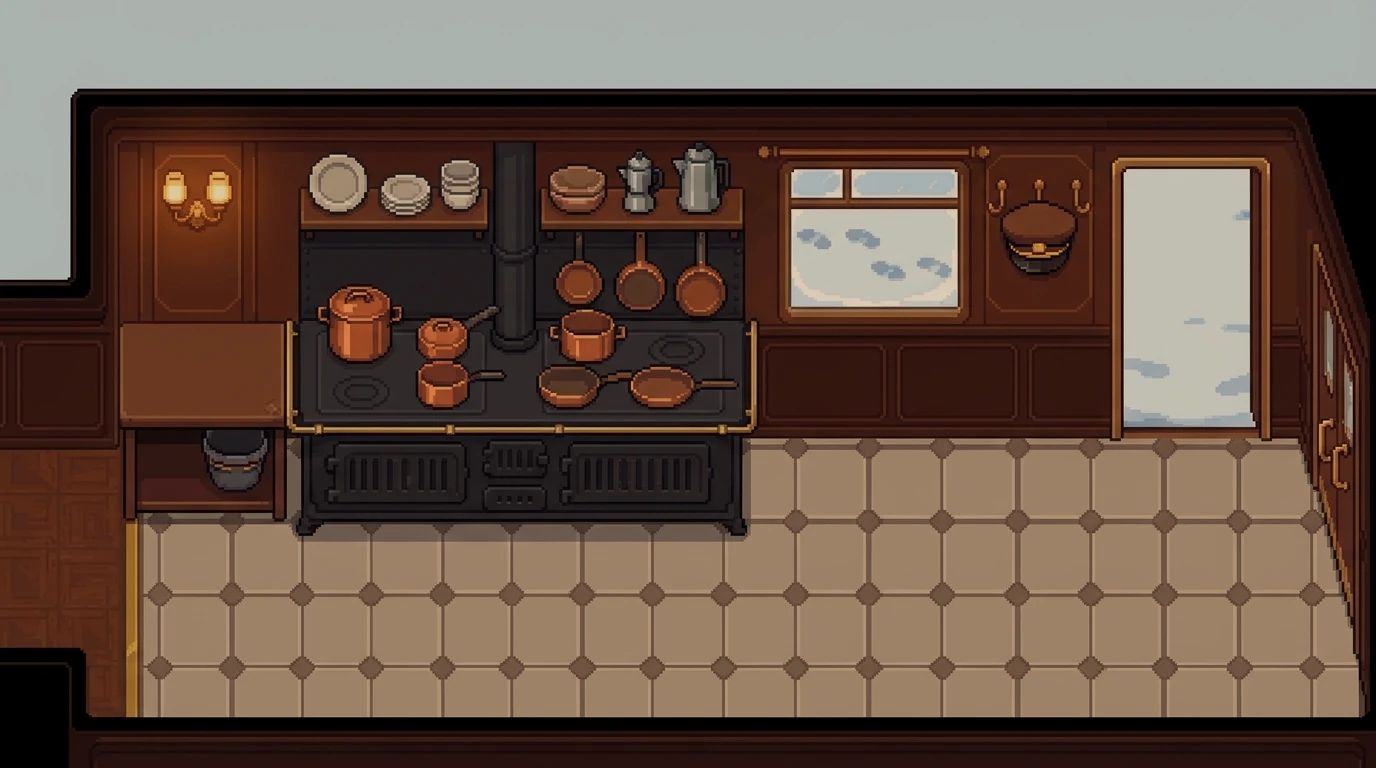
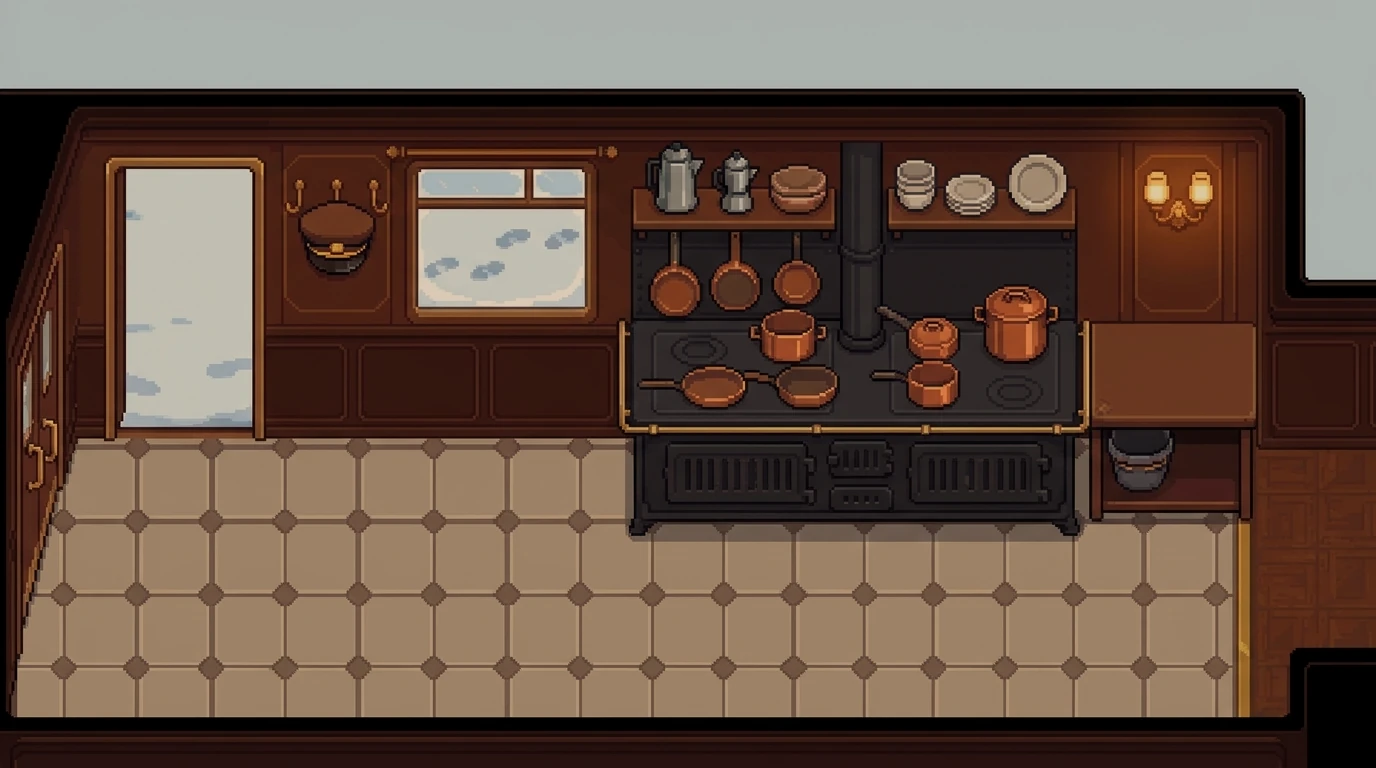
Organic exits, engraved door numbers, bottom mini-map, kitchen between dining car and lounge
- Exits: a pool of floor light with drifting chevrons; the name fades in only when near or hovered
- Corridor doors: numbers engraved on each door's brass plate instead of badges
- Mini-map: translucent at the bottom centre, hidden in conversations and panels, fades when walked under
- Train map: the you pin and portrait dots stay inside their room, wrapping when crowded
- Geography matches the map: sleeping car, dining car, kitchen (mirrored plate), lounge; the dining
  car's back door is now a linen cupboard
- Inventory button is a suitcase; docs updated

diff --git a/engine/engine.js b/engine/engine.js
@@ -282,6 +282,73 @@
     ctx.save(); ctx.globalCompositeOperation = 'soft-light'; ctx.fillStyle = L.wash; ctx.fillRect(0, 0, W, H); ctx.restore();
     ctx.drawImage(vignette, 0, 0);
   }
+  // Ways out are marked in the world, not with signs: a soft pool of light on the floor at every exit, with
+  // chevrons drifting the way you'd walk. Its name fades in only when you're close or pointing at it.
+  // Compartment doors in the corridor instead carry their number engraved on the door's own brass plate.
+  function exitSide(e) {
+    const [x, y, w, h] = e.rect;
+    return x < 60 ? 'left' : x + w > W - 60 ? 'right' : y + h > H - 70 ? 'down' : 'up';
+  }
+  function exitAnchor(e) {                                   // a point on the floor at the exit, and the way out
+    const [x, y, w, h] = e.rect, side = exitSide(e);
+    if (side === 'left') return [x + w + 20, y + h * 0.62, -1, 0];
+    if (side === 'right') return [x - 20, y + h * 0.62, 1, 0];
+    if (side === 'down') return [x + w / 2, y - 12, 0, 1];
+    return [x + w / 2, y + h + 8, 0, -1];
+  }
+  function drawExits() {
+    const cold = E.sceneId === 'outside', p = E.player, pulse = (Math.sin(E.t / 22) + 1) / 2, placed = [];
+    for (const e of E.scene.exits || []) {
+      if (!E.hooks.exitOpen(e)) continue;
+      const [x, y, w, h] = e.rect, hov = E.hover && E.hover.kind === 'exit' && E.hover.e === e;
+      const num = /^No\. (\d)$/.exec(e.label || '');
+      if (num && y < 300) {                                   // a compartment door: engrave the number on its plate
+        const cx = x + w / 2, cy = y + 57;
+        ctx.save(); ctx.textAlign = 'center'; ctx.textBaseline = 'middle'; ctx.font = `600 italic 17px Georgia, "Times New Roman", serif`;
+        ctx.fillStyle = 'rgba(255,236,190,.55)'; ctx.fillText(num[1], cx, cy + 1.5);        // highlight under the cut
+        ctx.fillStyle = hov ? '#2a1606' : '#4a2c12'; ctx.fillText(num[1], cx, cy);
+        if (hov) { ctx.globalAlpha = 0.35 + pulse * 0.25; ctx.strokeStyle = '#ffe3a0'; ctx.lineWidth = 2; roundRect(cx - 27, cy - 9, 54, 18, 3); ctx.stroke(); }
+        ctx.restore(); continue;
+      }
+      const [ax, ay, dx, dy] = exitAnchor(e), locked = !!e.locked;
+      // the pool of light
+      const rx = dy ? 62 : 46, ry = dy ? 18 : 30, g = ctx.createRadialGradient(ax, ay, 2, ax, ay, rx);
+      const col = locked ? '200,190,175' : cold ? '215,235,255' : '255,214,140', a0 = locked ? 0.12 : (hov ? 0.42 : 0.24) + pulse * 0.1;
+      g.addColorStop(0, `rgba(${col},${a0})`); g.addColorStop(1, `rgba(${col},0)`);
+      ctx.save(); ctx.globalCompositeOperation = 'lighter'; ctx.translate(ax, ay); ctx.scale(1, ry / rx); ctx.translate(-ax, -ay);
+      ctx.fillStyle = g; ctx.beginPath(); ctx.arc(ax, ay, rx, 0, 7); ctx.fill(); ctx.restore();
+      // chevrons drifting outwards (none on a locked way)
+      if (!locked) {
+        const ph = (E.t / 40) % 1, sq = dy ? 0.55 : 1;
+        ctx.save(); ctx.lineCap = 'round'; ctx.lineJoin = 'round'; ctx.lineWidth = 3; ctx.shadowColor = cold ? 'rgba(90,130,190,.6)' : 'rgba(120,70,10,.55)'; ctx.shadowBlur = 5;
+        for (let k = 0; k < 3; k++) {
+          const t = (k / 3 + ph) % 1, d = -14 + t * 34, fade = Math.sin(t * Math.PI);
+          const cx = ax + dx * d, cy = ay + dy * d * sq, s = 7;
+          ctx.globalAlpha = fade * (hov ? 0.95 : 0.7); ctx.strokeStyle = cold ? '#f4fbff' : '#fff1cf';
+          ctx.beginPath();
+          if (dx) { ctx.moveTo(cx - dx * s, cy - s); ctx.lineTo(cx, cy); ctx.lineTo(cx - dx * s, cy + s); }
+          else { ctx.moveTo(cx - s * 1.3, cy - dy * s * sq); ctx.lineTo(cx, cy); ctx.lineTo(cx + s * 1.3, cy - dy * s * sq); }
+          ctx.stroke();
+        }
+        ctx.restore();
+      }
+      // the name, only when it matters
+      const near = p ? Math.hypot(p.x - ax, p.y - ay) : 1e9, show = hov || near < 240 || E.t < (E.namesUntil || 0);
+      e.labelA = Math.max(0, Math.min(1, (e.labelA || 0) + (show ? 0.08 : -0.06)));
+      if (e.labelA > 0.02) {
+        const text = (locked ? '🔒 ' : '') + (num ? 'Compartment ' + num[1] : e.label);
+        ctx.save(); ctx.font = `800 16px ${FONT}`; ctx.textBaseline = 'middle'; ctx.textAlign = 'left';
+        const tw = ctx.measureText(text).width;
+        let tx = dx < 0 ? ax - 16 : dx > 0 ? ax + 16 - tw : ax - tw / 2, ty = dy ? ay - (dy < 0 ? 30 : 28) : ay - 34;
+        tx = Math.max(10, Math.min(W - tw - 10, tx));
+        for (let k = 0; k < 4; k++) { const hit = placed.find((r) => tx < r[0] + r[2] + 8 && tx + tw + 8 > r[0] && Math.abs(ty - r[1]) < 22); if (!hit) break; ty = hit[1] - 24; }
+        placed.push([tx, ty, tw]);
+        ctx.globalAlpha = e.labelA; ctx.shadowColor = 'rgba(16,8,2,.9)'; ctx.shadowBlur = 7; ctx.shadowOffsetY = 1;
+        ctx.fillStyle = locked ? '#d8ccb8' : cold ? '#ffffff' : '#fff3da'; ctx.fillText(text, tx, ty);
+        ctx.restore();
+      }
+    }
+  }
   function drawSpotMarkers() {
     for (const s of E.hooks.spots()) {
       if (s.prop) { const im = img('items/' + s.prop); if (ready(im)) { const w = s.w || 48, h = (im.naturalHeight * w) / im.naturalWidth; ctx.drawImage(im, s.at[0] - w / 2, s.at[1] - h / 2, w, h); } }
@@ -312,6 +379,7 @@
       const list = [...E.actors.values()].filter((a) => a.visible).sort((a, b) => a.y - b.y);
       for (const a of list) drawActor(a);
       drawLight(s);
+      drawExits();
       // Name labels only where they help: the person under the cursor, and the one E would talk to.
       // Speakers carry their name inside the bubble, so a crowded room stays readable.
       const near = nearestActor(), talking = new Set(E.bubbles.map((b) => b.who));
@@ -323,7 +391,8 @@
         if (name) label(name, a.x, a.box[1] - 26, hov || a === near ? { bg: '#fff3c4', edge: '#e0a72e', size: 15 } : { size: 15 });
       }
       if (E.hover && E.hover.kind === 'spot') label(E.hover.s.label, E.hover.s.at[0], E.hover.s.at[1] - E.hover.s.r - 34, { bg: '#fff3c4', edge: '#e0a72e' });
-      if (E.hover && E.hover.kind === 'exit') { const e = E.hover.e; label((e.locked ? '🔒 ' : '→ ') + e.label, e.rect[0] + e.rect[2] / 2, e.rect[1] - 30, { bg: '#fff3c4' }); }
+      // Signed exits highlight themselves on hover; compartment-door badges get a full name tag.
+      if (E.hover && E.hover.kind === 'exit' && /^No\. \d$/.test(E.hover.e.label) && E.hover.e.rect[1] < 300) { const e = E.hover.e; label('Compartment ' + e.label.slice(4), e.rect[0] + e.rect[2] / 2, e.rect[1] - 14, { bg: '#fff3c4', edge: '#e0a72e', size: 15 }); }
       checkExits();
     }
     E.bubbles = E.bubbles.filter((b) => { b.t++; if (--b.left <= 0) { const a = E.actors.get(b.who); if (a) a.talking = false; b.done && b.done(); return false; } return true; });

diff --git a/engine/scenes.js b/engine/scenes.js
@@ -19,12 +19,11 @@
       walk: [[[12, 458], [1292, 458], [1292, 602], [12, 602]]],
       exits: [
         { id: 'to-corridor', rect: [0, 455, 26, 150], to: 'corridor', spawn: [1262, 500, 'left'], label: 'Sleeping car' },
-        { id: 'to-lounge', rect: [1282, 455, 94, 150], locked: 'The lounge car is further on. Finish your breakfast first.', label: 'Lounge car', beats: BF },
-        { id: 'to-lounge', rect: [1282, 455, 94, 150], to: 'lounge', spawn: [60, 480, 'right'], label: 'Lounge car', beats: INV },
-        { id: 'to-kitchen', rect: [1185, 160, 105, 302], to: 'kitchen', spawn: [1250, 500, 'left'], label: 'Kitchen', beats: INV },
+        { id: 'to-kitchen', rect: [1282, 455, 94, 150], locked: 'The kitchen, and the lounge car beyond it. Finish your breakfast first.', label: 'Kitchen', beats: BF },
+        { id: 'to-kitchen', rect: [1282, 455, 94, 150], to: 'kitchen', spawn: [90, 600, 'right'], label: 'Kitchen · Lounge car', beats: INV },
       ],
       spots: [
-        { id: 'kitchen-door', at: [1235, 270], stand: [1235, 470], r: 70, label: 'Kitchen door', text: 'The kitchen. Luigi is banging pans; he waves you away. Later.', beats: BF },
+        { id: 'cupboard', at: [1235, 270], stand: [1235, 470], r: 70, label: 'A narrow door', text: 'The linen cupboard: starched napkins, spare tablecloths and a box of Wagons-Lits cutlery. Through the wall you can hear Luigi banging pans in the kitchen.' },
         { id: 'menu', at: [300, 360], stand: [300, 470], r: 40, label: 'Breakfast table', text: 'Café, croissants, oeufs à la coque. "With the compliments of the Compagnie, for the delay."', beats: BF },
         { id: 'trainlog', at: [300, 648], stand: [300, 596], r: 40, label: "Castelli's log book", clues: ['e_trainlog'], prop: 'e_trainlog', w: 52 },
       ],
@@ -66,7 +65,7 @@
     lounge: {
       name: 'Lounge car', bg: 'bg-lounge', base: 172, depth: [432, 522, 0.95, 1.02],
       walk: [[[12, 432], [1228, 432], [1228, 522], [12, 522]]],
-      exits: [{ id: 'to-dining', rect: [0, 430, 22, 95], to: 'dining', spawn: [1262, 530, 'left'], label: 'Dining car' }],
+      exits: [{ id: 'to-kitchen', rect: [0, 430, 22, 95], to: 'kitchen', spawn: [1150, 620, 'left'], label: 'Kitchen · Dining car' }],
       spots: [
         { id: 'scorecard', at: [748, 345], stand: [748, 445], r: 42, label: 'The card table', clues: ['e_scorecard'], prop: 'e_scorecard', w: 40 },
         { id: 'piano', at: [540, 280], stand: [540, 445], r: 55, label: 'The piano', text: 'An upright piano, lid open on a page of Satie. Someone has left a cigarette burn on middle C.' },
@@ -77,15 +76,16 @@
 
     kitchen: {
       name: 'Kitchen', bg: 'bg-kitchen', base: 185, depth: [452, 705, 1.0, 1.08],
-      walk: [[[145, 540], [760, 540], [760, 455], [1298, 455], [1298, 705], [145, 705]]],
+      walk: [[[1231, 540], [616, 540], [616, 455], [78, 455], [78, 705], [1231, 705]]],
       exits: [
-        { id: 'to-dining', rect: [1292, 440, 84, 140], to: 'dining', spawn: [1237, 500, 'front'], label: 'Dining car' },
-        { id: 'to-outside', rect: [1120, 160, 140, 302], to: 'outside', spawn: [1250, 600, 'front'], label: 'Outside (kitchen door)' },
+        { id: 'to-dining', rect: [0, 455, 84, 250], to: 'dining', spawn: [1240, 540, 'left'], label: 'Dining car' },
+        { id: 'to-lounge', rect: [1200, 540, 176, 170], to: 'lounge', spawn: [60, 480, 'right'], label: 'Lounge car' },
+        { id: 'to-outside', rect: [116, 160, 140, 302], to: 'outside', spawn: [1250, 600, 'front'], label: 'Outside (kitchen door)' },
       ],
       spots: [
-        { id: 'grappa', at: [205, 330], stand: [230, 560], r: 42, label: 'Behind the stove', clues: ['e_grappa'], prop: 'e_grappa', w: 58 },
-        { id: 'cap', at: [1035, 232], stand: [1035, 480], r: 45, label: 'A cap on the hook', text: "A Wagons-Lits conductor's cap on the hook by the north window. Not Luigi's size." },
-        { id: 'window', at: [870, 240], stand: [870, 475], r: 70, label: 'The north window', text: 'Through the glass: a line of footprints in the snow, running along the train towards the lounge end.' },
+        { id: 'grappa', at: [1171, 330], stand: [1146, 560], r: 42, label: 'Behind the stove', clues: ['e_grappa'], prop: 'e_grappa', w: 58 },
+        { id: 'cap', at: [341, 232], stand: [341, 480], r: 45, label: 'A cap on the hook', text: "A Wagons-Lits conductor's cap on the hook by the north window. Not Luigi's size." },
+        { id: 'window', at: [506, 240], stand: [506, 475], r: 70, label: 'The north window', text: 'Through the glass: a line of footprints in the snow, running along the train towards the lounge end.' },
       ],
     },
 
@@ -94,7 +94,7 @@
       walk: [[[380, 545], [1376, 545], [1376, 745], [250, 745], [250, 640], [380, 565]]],
       exits: [
         { id: 'to-corridor', rect: [1100, 380, 80, 172], to: 'corridor', spawn: [80, 565, 'right'], label: 'Sleeping car door' },
-        { id: 'to-kitchen', rect: [1210, 380, 80, 172], to: 'kitchen', spawn: [1190, 480, 'front'], label: 'Dining car (kitchen door)' },
+        { id: 'to-kitchen', rect: [1210, 380, 80, 172], to: 'kitchen', spawn: [186, 480, 'front'], label: 'Kitchen door' },
       ],
       spots: [
         { id: 'prints', at: [800, 600], stand: [800, 665], r: 90, label: 'Footprints', clues: ['e_footprints'] },
@@ -160,7 +160,7 @@
       corridor: { castelli: [1280, 500, 'left'], theo: [930, 470, 'right'], ferrand: [1085, 440, 'right'] },
       dining: { irina: [592, 440, 'right', 'sit'] },
       lounge: { hale: [838, 408, 'left', 'sit'], mila: [1190, 500, 'right'], brandt: [1052, 585, 'left', 'sit'] },
-      kitchen: { cook: [620, 575, 'left'] },
+      kitchen: { cook: [756, 575, 'right'] },
       c7: {},
     },
   };

diff --git a/engine/minimap.js b/engine/minimap.js
@@ -1,4 +1,4 @@
-// Always-on mini-map (top right, under the clock): a strip of the illustrated train (the same art as the
+// Always-on mini-map (bottom centre, see-through): a strip of the illustrated train (the same art as the
 // full map, game-assets/ui/train-map.webp) with the current room outlined and a pulsing pin on you.
 // Click it (or press M) for the full map. Reads the room geometry from MAP.ROOMS (engine/map.js) and
 // follows ENGINE.sceneId on its own, so the story code doesn't have to call it.
@@ -8,26 +8,29 @@
   const CROP = [150, 118, 1400, 392];                 // x, y, w, h of the train strip inside the map art
   const pct = (v, of) => (v / of * 100).toFixed(3) + '%';
   const css = `
-#minimap { position: absolute; top: 4.1em; right: .9em; width: 15.5em; padding: .3em .3em .25em; cursor: pointer; }
+#minimap { position: absolute; left: 50%; bottom: .7em; transform: translateX(-50%); width: 24em; padding: .25em .3em .2em; cursor: pointer;
+  background: rgba(245,234,208,.28); border: .1em solid rgba(180,137,61,.55); border-radius: .5em; box-shadow: 0 .3em .9em rgba(0,0,0,.28);
+  backdrop-filter: blur(2px); -webkit-backdrop-filter: blur(2px); opacity: .72; transition: opacity .25s; }
+#minimap:hover { opacity: 1; }
+#minimap.under { opacity: .16; pointer-events: none; }
 #minimap .mm { position: relative; width: 100%; aspect-ratio: ${CROP[2]} / ${CROP[3]}; border-radius: .3em; overflow: hidden; border: .12em solid var(--edge);
   background: #e8eef4 url(${SRC}) no-repeat; background-size: ${pct(IMG_W, CROP[2])} auto;
   background-position: ${pct(CROP[0], IMG_W - CROP[2])} ${pct(CROP[1], IMG_H - CROP[3])}; filter: saturate(.85); }
 #minimap .mm::after { content: ""; position: absolute; inset: 0; background: rgba(245,234,208,.12); pointer-events: none; }
 #minimap .rm { position: absolute; border-radius: .2em; box-shadow: 0 0 0 .12em #f0c46a, 0 0 .6em .1em rgba(240,196,106,.75); background: rgba(255,236,170,.18); }
-#minimap .pin { position: absolute; width: .8em; height: .8em; transform: translate(-50%, -50%); border-radius: 50%; background: #35557a; border: .13em solid #f0c46a; z-index: 2; }
+#minimap .pin { position: absolute; width: .95em; height: .95em; transform: translate(-50%, -50%); border-radius: 50%; background: #35557a; border: .13em solid #f0c46a; z-index: 2; }
 #minimap .pin::after { content: ""; position: absolute; inset: -.15em; border-radius: 50%; border: .15em solid #f0c46a; animation: mmpulse 1.6s ease-out infinite; }
 @keyframes mmpulse { from { transform: scale(1); opacity: .9; } to { transform: scale(2.6); opacity: 0; } }
-#minimap .cap { display: flex; justify-content: space-between; align-items: baseline; gap: .5em; margin-top: .2em; font: 800 .62em var(--ui); color: var(--ink); padding: 0 .2em; }
-#minimap .cap span { color: var(--muted); font-weight: 700; }
-#minimap:hover { box-shadow: 0 0 0 .12em #f0c46a, 0 .3em .8em rgba(0,0,0,.35); }
+#minimap .cap { display: flex; justify-content: space-between; align-items: baseline; gap: .5em; margin-top: .25em; font: 800 .74em var(--ui); color: #fff3da; text-shadow: 0 1px 3px rgba(16,8,2,.9); padding: 0 .2em; }
+#minimap .cap span { color: #f0dcb4; font-weight: 700; }
 `;
   let el = null, last = null;
-  const CAR = { night: 'Engine', corridor: 'Sleeping car', dining: 'Dining car', kitchen: 'Dining car', lounge: 'Lounge car', outside: 'Outside' };
+  const CAR = { night: 'Engine', corridor: 'Sleeping car', dining: 'Dining car', kitchen: 'Dining car', lounge: 'Lounge car' };
 
   function mount() {
     const hud = document.getElementById('hud'); if (!hud || !window.MAP || !MAP.ROOMS) return false;
     const s = document.createElement('style'); s.textContent = css; document.head.appendChild(s);
-    el = document.createElement('div'); el.id = 'minimap'; el.className = 'parch'; el.title = 'The train (M)';
+    el = document.createElement('div'); el.id = 'minimap'; el.title = 'The train (M)';
     el.innerHTML = '<div class="mm"><div class="rm" hidden></div><div class="pin" hidden></div></div><div class="cap"><b></b><span>M: map</span></div>';
     el.addEventListener('click', () => {
       const E = window.ENGINE, G = window.GAME && GAME.G; if (!E || !G || !window.UI) return;
@@ -38,8 +41,13 @@
   }
   function update() {
     const E = window.ENGINE; if (!el && !mount()) return;
-    const id = E && E.sceneId, show = !!(E && E.scene && !E.scene.cinematic && MAP.ROOMS[id]);
-    el.hidden = !show; if (!show || id === last) return;
+    const dlg = document.getElementById('dialog'), busy = (dlg && !dlg.hidden) || (window.UI && UI.panelOpen && UI.panelOpen());
+    const id = E && E.sceneId, show = !!(E && E.scene && !E.scene.cinematic && MAP.ROOMS[id]) && !busy;
+    el.hidden = !show;
+    // fade right out when Sorel walks underneath it (the compartments' way out is at the bottom centre)
+    const p = E && E.player, under = !!(p && p.y > E.H - 230 && Math.abs(p.x - E.W / 2) < 330);
+    el.classList.toggle('under', under);
+    if (!show || id === last) return;
     last = id;
     const r = MAP.ROOMS[id], [x, y, w, h] = r.box, rm = el.querySelector('.rm'), pin = el.querySelector('.pin');
     const X = (v) => pct(v - CROP[0], CROP[2]), Y = (v) => pct(v - CROP[1], CROP[3]);

diff --git a/engine/map.js b/engine/map.js
@@ -103,19 +103,25 @@
       if (r.tag) html += `<div class="lbl tag${u}" style="${pos(id === 'corridor' ? 742 : r.at[0], id === 'corridor' ? 404 : id === 'kitchen' ? 298 : r.at[1] - 36)}">${esc(r.tag)}</div>`;
       if (r.num) html += `<div class="lbl num${u}${r.num === 7 ? ' seven' : ''}" style="${pos(r.at[0], 298)}">${r.num}</div>`;
     }
-    // people (portrait dots), spread in a row around the room's anchor; shifted right of the "you" pin
+    // Who is where: the "you" pin and the portrait dots are laid out INSIDE each room's box. The pin takes the
+    // left of the room you're in, the dots fill the rest in rows, so nothing spills over into the next car.
+    const DOT = 47;                                            // dot pitch, in map pixels (the dot itself is 1.7em)
     for (const id of Object.keys(ROOMS)) {
-      const list = people(id); if (!list.length || (id === here && ROOMS[id].num)) continue; // a compartment is too small for the pin and dots together
-      const r = ROOMS[id], step = r.num ? 34 : 44;
-      const x0 = r.at[0] - (list.length - 1) * step / 2 + (id === here ? 20 : 0);
-      const y = r.num ? 338 : r.at[1];
+      const r = ROOMS[id], mine = id === here && !r.num;
+      const list = people(id); if (!list.length || (id === here && r.num)) continue; // a compartment is too small for the pin and dots together
+      const [bx, by, bw, bh] = r.box;
+      if (r.num) { list.slice(0, 1).forEach((p) => { html += `<div class="dot${p === 'lazar' ? ' dead' : ''}" data-who="${p}" style="${pos(r.at[0], 338)};background-image:url(game-assets/portraits/${p}-0.webp)" data-room="${id}"></div>`; }); continue; }
+      const x0 = bx + (mine ? 62 : 14), x1 = bx + bw - 14, perRow = Math.max(1, Math.floor((x1 - x0) / DOT) + 1);
+      const rows = Math.ceil(list.length / perRow), yc = by + bh / 2 + (id === 'corridor' ? 8 : 12);
       list.forEach((p, i) => {
-        html += `<div class="dot${p === 'lazar' ? ' dead' : ''}" data-who="${p}" style="${pos(x0 + i * step, y)};background-image:url(game-assets/portraits/${p}-0.webp)" data-room="${id}"></div>`;
+        const row = Math.floor(i / perRow), n = Math.min(perRow, list.length - row * perRow), col = i % perRow;
+        const span = (n - 1) * DOT, cx = x0 + (x1 - x0) / 2 - span / 2 + col * DOT, cy = yc + (row - (rows - 1) / 2) * DOT;
+        html += `<div class="dot${p === 'lazar' ? ' dead' : ''}" data-who="${p}" style="${pos(cx, cy)};background-image:url(game-assets/portraits/${p}-0.webp)" data-room="${id}"></div>`;
       });
     }
     if (ROOMS[here]) {
       const r = ROOMS[here], crowd = people(here).length && !r.num;
-      const x = r.at[0] - (crowd ? (people(here).length * 44) / 2 + 40 : 0), y = r.num ? r.at[1] - 8 : r.at[1];
+      const x = crowd ? r.box[0] + 36 : r.at[0], y = r.num ? r.at[1] - 8 : crowd ? r.box[1] + r.box[3] / 2 + 4 : r.at[1];
       html += `<div class="you" style="${pos(x, y)}"><i></i><b>You</b></div>`;
     }
     html += '<div class="tip" hidden></div></div>';

diff --git a/index.html b/index.html
@@ -166,7 +166,7 @@ button { font-family: var(--ui); }
       <button class="sq parch" id="btn-map" title="The train (M)" aria-label="Map"><svg viewBox="0 0 24 24" fill="none" stroke="currentColor" stroke-width="2"><path d="M3 6l6-2 6 2 6-2v14l-6 2-6-2-6 2z"/><path d="M9 4v14M15 6v14"/></svg></button>
       <button class="sq parch" id="btn-people" title="Notebook (J)" aria-label="Notebook"><svg viewBox="0 0 24 24" fill="none" stroke="currentColor" stroke-width="2"><circle cx="9" cy="8" r="3"/><circle cx="17" cy="9" r="2.4"/><path d="M3 19c0-3.3 2.7-5 6-5s6 1.7 6 5M14.5 14.2c3.5-.5 6.5 1 6.5 4.8"/></svg></button>
       <button class="sq parch" id="btn-note" title="Quick note (N)" aria-label="Quick note"><svg viewBox="0 0 24 24" fill="none" stroke="currentColor" stroke-width="2"><path d="M4 20l1-4L16 5l3 3L8 19z"/><path d="M14 7l3 3M4 20h6"/></svg></button>
-      <button class="sq parch" id="btn-bag" title="Inventory (I)" aria-label="Inventory"><svg viewBox="0 0 24 24" fill="none" stroke="currentColor" stroke-width="2"><path d="M5 8h14l-1 12H6z"/><path d="M9 8V6a3 3 0 016 0v2"/></svg></button>
+      <button class="sq parch" id="btn-bag" title="Inventory (I)" aria-label="Inventory"><svg viewBox="0 0 24 24" fill="none" stroke="currentColor" stroke-width="2" stroke-linejoin="round"><rect x="3" y="7.5" width="18" height="12.5" rx="2"/><path d="M9 7.5V5.5a1.5 1.5 0 011.5-1.5h3A1.5 1.5 0 0115 5.5v2"/><path d="M3 12.5h18"/><path d="M7.5 7.5v12.5M16.5 7.5v12.5"/></svg></button>
       <button class="sq parch" id="btn-settings" title="Settings (Esc)" aria-label="Settings"><svg viewBox="0 0 24 24" fill="none" stroke="currentColor" stroke-width="2"><circle cx="12" cy="12" r="3"/><path d="M12 2v3M12 19v3M4.2 4.2l2.1 2.1M17.7 17.7l2.1 2.1M2 12h3M19 12h3M4.2 19.8l2.1-2.1M17.7 6.3l2.1-2.1"/></svg></button>
     </div>
     <div id="place" class="parch">Dining car</div>

diff --git a/tools/build-game-assets.py b/tools/build-game-assets.py
@@ -16,6 +16,7 @@ manifest = {'bg': [], 'sprites': {}, 'portraits': {}, 'items': []}
 # grey-cream tiles and compartment 6 are brighter and colder than the other interiors). warm = how far
 # to multiply towards lamp light, bright / sat = ImageEnhance factors.
 from PIL import ImageEnhance, ImageChops
+FLIP = {'bg-kitchen'}
 GRADE = {'bg-kitchen': dict(warm=0.30, bright=0.86, sat=1.12), 'bg-c6': dict(warm=0.18, bright=0.9, sat=1.08)}
 LAMP = (255, 196, 128)
 def grade(im, warm=0.0, bright=1.0, sat=1.0):
@@ -26,7 +27,11 @@ def grade(im, warm=0.0, bright=1.0, sat=1.0):
 
 # backgrounds: full size (1376x768), webp
 for f in sorted((SRC / 'backgrounds').glob('*.jpg')):
-    grade(Image.open(f).convert('RGB'), **GRADE.get(f.stem, {})).save(OUT / 'bg' / f'{f.stem}.webp', 'WEBP', quality=90, method=6)
+    im = Image.open(f).convert('RGB')
+    # The kitchen sits between the dining car and the lounge (as on the map), so its plate is mirrored:
+    # the dining car must be on its left. engine/scenes.js uses the mirrored coordinates.
+    if f.stem in FLIP: im = im.transpose(Image.FLIP_LEFT_RIGHT)
+    grade(im, **GRADE.get(f.stem, {})).save(OUT / 'bg' / f'{f.stem}.webp', 'WEBP', quality=90, method=6)
     manifest['bg'].append(f.stem)
 
 # sprites: poses from the slices, normalised to 300 px tall, feet at the bottom edge

diff --git a/docs/architecture.md b/docs/architecture.md
@@ -30,6 +30,9 @@ The two front ends share the same brains, the voice module and the bundle. `engi
 | `dialogue.js` | The conversation box. It uses the same brains as the prototype: scripted, or live through `/api/talk` with Gradium voice |
 | `ui.js` | The parchment DOM UI: top bar, hints, examine box, inventory, notebook, map, settings, accusation and the newspaper ending |
 | `audio.js` | `AUDIO`: the Lyria soundtrack (`game-assets/audio/`, crossfaded per beat, looped seamlessly, ducked while a voice speaks) and procedural WebAudio effects (footsteps per surface, doors, clue chime, page turn, UI clicks, toasts, train creaks and wind, the avalanche, stings). Starts on the first click or key. Settings: `music`, `musicVol`, `sound`, `sfxVol` |
+| `map.js` | The train map panel (M): an illustrated cut-away of the train (`game-assets/ui/train-map.webp`) with room tags, a "you are here" pin, visited rooms, who is where, and tooltips. `MAP.ROOMS` holds the room geometry |
+| `minimap.js` | The always-on mini-map, translucent at the bottom centre: a strip of the same art with the current room outlined and a pin. It hides during conversations and panels, and fades right out when Sorel walks under it. It follows `ENGINE.sceneId` by itself; a click opens the full map |
+| `notes.js` | Quick notes (N, or Alt+N in a conversation) and the notebook's *My notes* tab, organised by Gemini through `POST /api/notes/organize` |
 
 **Stages built so far:** the dining car, the corridor and compartment 7, plus the night opening.
 
@@ -89,13 +92,26 @@ The client stores `history` for each character and chapter and sends it back wit
 
 ## Voice pipeline (Gradium)
 
-- **Speaking (text-to-speech):** `new VOICE.Speech(voiceId)` opens `wss://api.gradium.ai/api/speech/tts?token=…`.
-  - Text deltas from the brain are cut at phrase boundaries (`. ? ! ,` or 90 chars) and sent as they arrive. `end()` sends `<flush>` and `end_of_stream`.
-  - Audio comes back as 24 kHz PCM16 and plays gaplessly through one `AudioContext`. An analyser drives the lip-flap.
+- **Speaking (text-to-speech):** `new VOICE.Speech(voiceId)` opens `wss://api.gradium.ai/api/speech/tts?token=…` and sends `setup` straight away.
+  - **Settings.** `VOICE.settingsFor(voiceId)` merges `CASE.voice` (`ttsModel`, `gradiumSpeed`, `gradiumTemp`) with the character's `voice.gradiumSpeed` / `voice.gradiumTemp`. Setup is `{ model_name, voice_id, output_format: "pcm_24000", json_config: { padding_bonus, temp } }`. Shipped defaults: `gradium-tts-beta`, speed `-1.0`, temp `0.8`. Per character, speed runs from `-0.5` (Lazăr, unhurried) to `-1.2` (Hale, Mila, Théo). Stay at or above `-1.2`: at `-1.5`, words start to slur.
+  - **Opened early.** The dialogue creates the Speech when the player asks, before Gemini answers. The token, socket and `ready` (about 150–500 ms) finish while Gemini thinks. A reply with no words is closed quietly by `end()`.
+  - **Chunking** (`VOICE.nextChunk`) sends whole sentences. A sentence shorter than 24 chars waits for the next one, and "Dr." or "Mr." does not end a sentence. A sentence longer than 120 chars is cut at a clause (`, ; : —`) at least 40 chars in, and at 220 chars at a space. `<flush>` is sent only at the end of the reply, or after 800 ms with no new text (for example during a tool call).
+  - **Playback** starts on the first audio chunk (30 ms of headroom), then plays gaplessly through one `AudioContext`. An analyser drives the lip-flap. Gradium adds about 2 s of silence at the end of a reply. Silent chunks are held back and dropped at `end_of_stream`, so `VOICE.player.speaking` (music ducking, lip-flap) stops when the voice does.
+  - **Captions follow the voice.** Gradium sends word timestamps (`text` messages with `start_s`). `speech.caption(text)` returns the words spoken so far. `engine/dialogue.js` and the prototype's `assets/talk.js` type the reply at that pace. The whole text shows if the voice fails, or if no audio arrives within 2.5 s.
+  - **Retry.** If the socket fails before any audio (for example "Concurrency limit exceeded"), it retries once after 350 ms and resends the text.
 - **Listening (speech-to-text):** push-to-talk.
-  - `VOICE.Listener.start()` opens `…/asr`, starts the microphone and streams about 85 ms chunks.
-  - `stop()` sends `flush` and waits up to 1.5 s for `flushed`, then resolves with the text.
-- **Tokens:** every socket gets a fresh single-use token from `GET /api/gradium-token`. The API key stays on the server.
+  - `VOICE.Listener.start()` asks for the microphone and the token at the same time. It then opens `…/asr` and streams about 85 ms chunks.
+  - The setup boosts the cast's names (`keywords`, boost 3). Without it, "Countess Irina Voss" came back as "contest Irena Voss" and "Stefan Brandt" as "Stefon Brant".
+  - `stop()` sends `flush` and waits up to 1.5 s for `flushed` (in tests it arrives in about 350–420 ms), then resolves with the text.
+- **Tokens:** every socket gets a fresh single-use token from `GET /api/gradium-token`. The API key stays on the server. A token lives only about 4 s, so none are cached ahead of time.
+- **Account limit:** the Gradium key allows **2 concurrent sessions**. One reply socket plus the mic is the most the game opens at once. Another tab or test script using the same key can cause `Concurrency limit exceeded`.
+- **Logs** (scope `voice`): `tts setup` (who, model, speed, temp, openMs), `tts first audio` (`ttfaMs` is measured from the first text sent; `sinceOpenMs` from when the Speech was created, so it includes Gemini's time), `tts done` (audioSec, chars, charsPerSec, trimmedSec) and `heard` (flushMs).
+- **Benchmark:** `~/Documents/projects/artifacts/voice-tests/bench.mjs` measures audio length, time to first audio and a speech-to-text round trip for each setting. The WAV samples are saved next to it. Measured on 2026-09-26, three test replies:
+
+  | Setting | Audio length | Speech only | Time to first audio after the first text |
+  |---|---|---|---|
+  | Before: `default` model, phrase chunks, speed 0 | 15.6 s | 13.0 s | 360 ms |
+  | Now: beta model, sentence chunks, per-character speed and temperature | 12.8 s (10.8 s after the silence trim) | 10.9 s | 96 ms |
 
 ## Security and anti-leak design
 

diff --git a/docs/scenario.md b/docs/scenario.md
@@ -22,7 +22,7 @@ A case is a single JSON file (`scenario/orient.json`). The server reads it direc
 | `schedules` | `{ [chapter]: { [characterId]: [[time, waypoint], …] } }`: where each person is and when |
 | `player` | The player's id, name and `look` colours |
 | `brain` | `{ provider: "gemini", model, fallbackModel, thinkingLevel }` |
-| `voice` | `{ provider: "gradium", sttLanguage, ttsFormat }` |
+| `voice` | `{ provider: "gradium", sttLanguage, ttsFormat, ttsModel, gradiumSpeed, gradiumTemp }`. `ttsModel` is the Gradium TTS model (`gradium-tts-beta`). `gradiumSpeed` is the default `padding_bonus` (negative is faster; stay between `-1.2` and `0`). `gradiumTemp` is the default sampling temperature (0.7 to 0.9) |
 
 ## Chapters
 
@@ -61,7 +61,7 @@ A case is a single JSON file (`scenario/orient.json`). The server reads it direc
 | `id`, `name`, `age`, `role`, `chapters[]` | Identity and the chapters where they appear |
 | `isVictim`, `isKiller`, `isStaff` | Staff and the victim are not suspects in the accusation form |
 | `look` | Colours for the code-drawn sprites (prototype) |
-| `voice` | `{ gemini, style, gradium, gradiumName }`. `gradium` is the voice id used for TTS; `style` goes into the prompt |
+| `voice` | `{ gemini, style, gradium, gradiumName, gradiumSpeed?, gradiumTemp? }`. `gradium` is the voice id used for TTS; `style` goes into the prompt. `gradiumSpeed` and `gradiumTemp` override the scenario defaults for this character, and are copied into the browser bundle |
 | `bio`, `personality[]`, `speechStyle` | Persona |
 | `relationships` | `{ otherId: "what I think of them" }` |
 | `knowledge[]` | Facts they know. Prefix `AFTER: ` for things known only after the murder; lines starting `NOTE FOR THE ENGINE` never reach the model |

diff --git a/docs/art-pipeline.md b/docs/art-pipeline.md
@@ -29,6 +29,8 @@ game-assets/{bg,sprites,portraits,items}/  +  game-assets/manifest.json
 | `python3 tools/build-game-assets.py` | Needs Pillow. Writes the game-ready files in `game-assets/` |
 | `tools/cdp.mjs` | A small headless-Chrome driver for automated playtests and screenshots (see below) |
 
+`build-game-assets.py` also grades a few backgrounds towards the lamp-lit palette (`GRADE`), and mirrors the kitchen plate (`FLIP`), so the kitchen sits between the dining car and the lounge as on the map. `engine/scenes.js` uses the mirrored coordinates. Seated sprites (`<id>-sit.png`) are copied as they are, because they are already sized so the head matches the 300 px standing sprites.
+
 All the Node tools read `GEMINI_API_KEY` from `.env` and log through `server/log.mjs`. With `LOG_LEVEL=debug` you also see each request, the reference count, prompt size and timing.
 
 ## Audio
